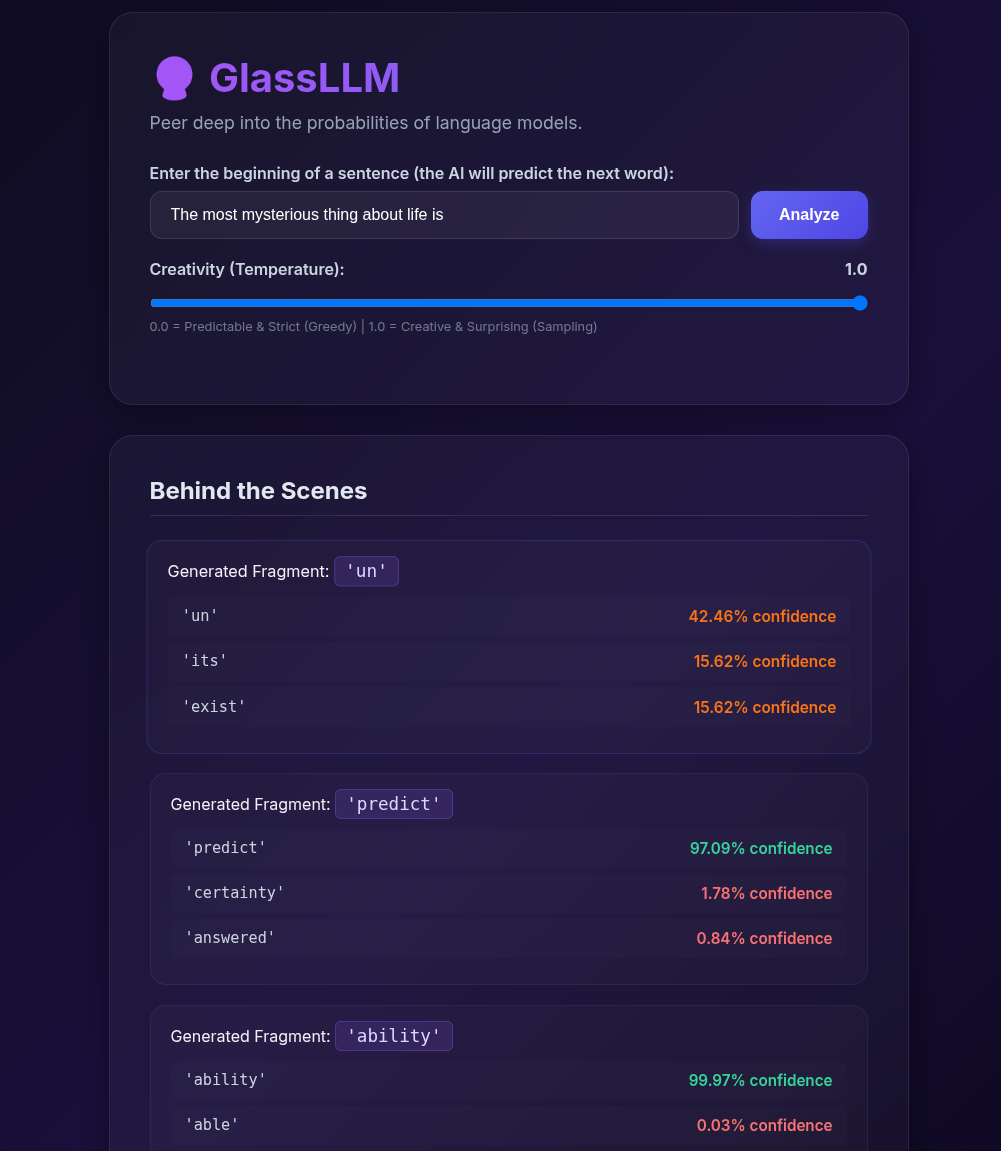
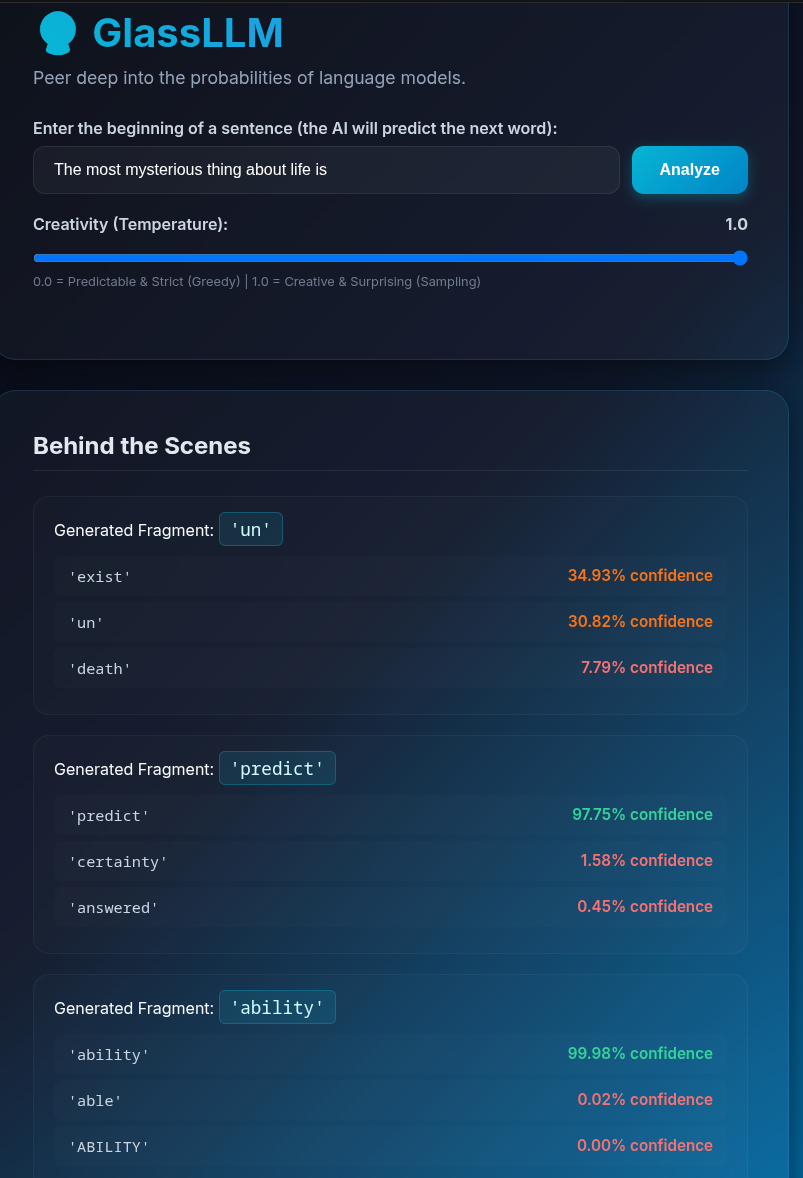
style: aktualisiertes farbdesign zu hellblau und screenshots zu readme

diff --git a/static/style.css b/static/style.css
@@ -1,4 +1,3 @@
-
 @import url('https://fonts.googleapis.com/css2?family=Inter:wght@300;400;600;700&display=swap');
 
 * {
@@ -9,13 +8,15 @@
 
 body {
     font-family: 'Inter', sans-serif;
-    background: linear-gradient(135deg, #0f0c20 0%, #1a103c 50%, #0a0618 100%);
-    color: #f3f1f6;
+    /* NEU: Tiefsee-Verlauf statt Lila-Nacht */
+    background: linear-gradient(135deg, #060913 0%, #0f172a 50%, #0369a1 100%);
+    color: #f8fafc;
     min-height: 100vh;
     display: flex;
     justify-content: center;
     align-items: flex-start;
     padding: 40px 20px;
+    background-attachment: fixed;
 }
 
 .container {
@@ -23,15 +24,16 @@ body {
     max-width: 800px;
 }
 
-/* 🔮 */
+/* 🔮 Der optimierte Glaseffekt */
 .glass-card {
     background: rgba(255, 255, 255, 0.03);
     backdrop-filter: blur(16px);
     -webkit-backdrop-filter: blur(16px);
-    border: 1px solid rgba(255, 255, 255, 0.08);
+    /* NEU: Der Rand schimmert jetzt leicht Hellblau/Cyan statt reinem Weiß */
+    border: 1px solid rgba(56, 189, 248, 0.15);
     border-radius: 24px;
     padding: 40px;
-    box-shadow: 0 8px 32px 0 rgba(0, 0, 0, 0.37);
+    box-shadow: 0 8px 32px 0 rgba(0, 0, 0, 0.5);
     margin-bottom: 30px;
 }
 
@@ -39,7 +41,8 @@ h1 {
     font-size: 2.5rem;
     font-weight: 700;
     margin-bottom: 10px;
-    background: linear-gradient(45deg, #a855f7, #6366f1);
+    /* NEU: Ein eisiger Verlauf von Cyan zu hellem Königsblau */
+    background: linear-gradient(45deg, #06b6d4, #3b82f6);
     -webkit-background-clip: text;
     background-clip: text; 
     -webkit-text-fill-color: transparent;
@@ -73,8 +76,8 @@ label {
 
 input[type="text"] {
     flex: 1;
-    background: rgba(255, 255, 255, 0.05);
-    border: 1px solid rgba(255, 255, 255, 0.1);
+    background: rgba(255, 255, 255, 0.04);
+    border: 1px solid rgba(255, 255, 255, 0.08);
     border-radius: 12px;
     padding: 14px 20px;
     color: #fff;
@@ -84,13 +87,15 @@ input[type="text"] {
 
 input[type="text"]:focus {
     outline: none;
-    border-color: #818cf8;
-    background: rgba(255, 255, 255, 0.08);
-    box-shadow: 0 0 15px rgba(99, 102, 241, 0.2);
+    /* NEU: Fokus-Leuchten in hellem Himmelsblau */
+    border-color: #38bdf8;
+    background: rgba(255, 255, 255, 0.07);
+    box-shadow: 0 0 15px rgba(56, 189, 248, 0.25);
 }
 
 button {
-    background: linear-gradient(135deg, #6366f1 0%, #4f46e5 100%);
+    /* NEU: Button-Gradient wechselt von Cyan zu tiefem Himmelsblau */
+    background: linear-gradient(135deg, #06b6d4 0%, #0284c7 100%);
     border: none;
     border-radius: 12px;
     padding: 14px 28px;
@@ -99,14 +104,13 @@ button {
     font-size: 1rem;
     cursor: pointer;
     transition: all 0.3s ease;
-    box-shadow: 0 4px 12px rgba(79, 70, 229, 0.3);
+    box-shadow: 0 4px 12px rgba(6, 182, 212, 0.3);
 }
 
 button:hover {
     transform: translateY(-2px);
-    box-shadow: 0 6px 20px rgba(99, 102, 241, 0.4);
+    box-shadow: 0 6px 20px rgba(6, 182, 212, 0.5);
 }
-
 
 .error-msg {
     background: rgba(239, 68, 68, 0.1);
@@ -122,13 +126,13 @@ button:hover {
     font-size: 1.5rem;
     margin-bottom: 25px;
     color: #e2e8f0;
-    border-bottom: 1px solid rgba(255, 255, 255, 0.1);
+    border-bottom: 1px solid rgba(255, 255, 255, 0.08);
     padding-bottom: 10px;
 }
 
 .token-card {
-    background: rgba(255, 255, 255, 0.02);
-    border: 1px solid rgba(255, 255, 255, 0.05);
+    background: rgba(255, 255, 255, 0.01);
+    border: 1px solid rgba(255, 255, 255, 0.04);
     border-radius: 16px;
     padding: 20px;
     margin-bottom: 20px;
@@ -137,13 +141,15 @@ button:hover {
 
 .token-card:hover {
     transform: scale(1.01);
-    border-color: rgba(99, 102, 241, 0.2);
+    /* NEU: Dezenter hellblauer Rahmen beim Hovern der Token-Karten */
+    border-color: rgba(56, 189, 248, 0.3);
 }
 
 .token-badge {
-    background: rgba(139, 92, 246, 0.15);
-    border: 1px solid rgba(139, 92, 246, 0.3);
-    color: #ddd6fe;
+    /* NEU: Das Badge leuchtet jetzt in eisigem Cyan statt Violett */
+    background: rgba(6, 182, 212, 0.12);
+    border: 1px solid rgba(6, 182, 212, 0.3);
+    color: #cffafe;
     padding: 4px 10px;
     border-radius: 6px;
     font-family: monospace;
@@ -172,10 +178,9 @@ button:hover {
 
 .option-prob {
     font-weight: 600;
-    
 }
 
-/* dynamic colors */
+/* Dynamische Ampelfarben (unverändert, da logisches Feedback) */
 .prob-high {
     color: #34d399;
 }